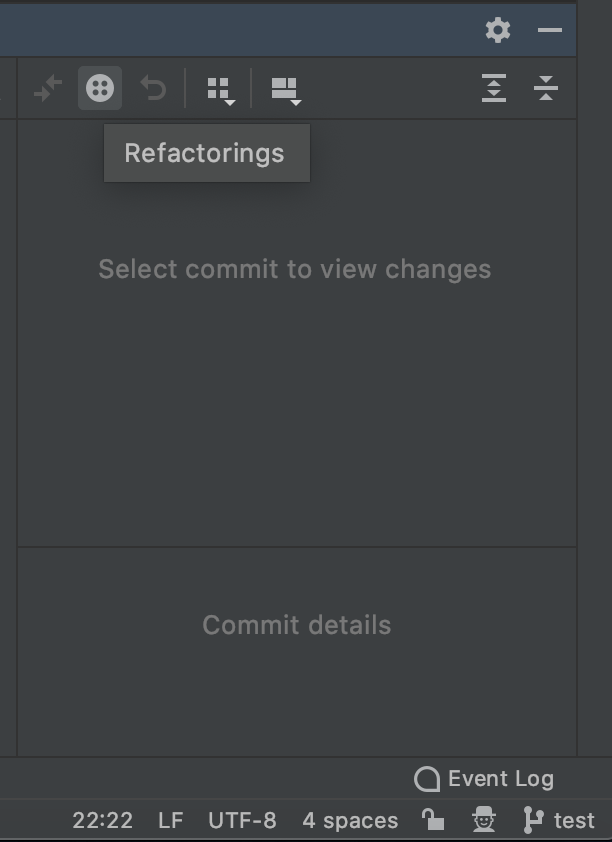
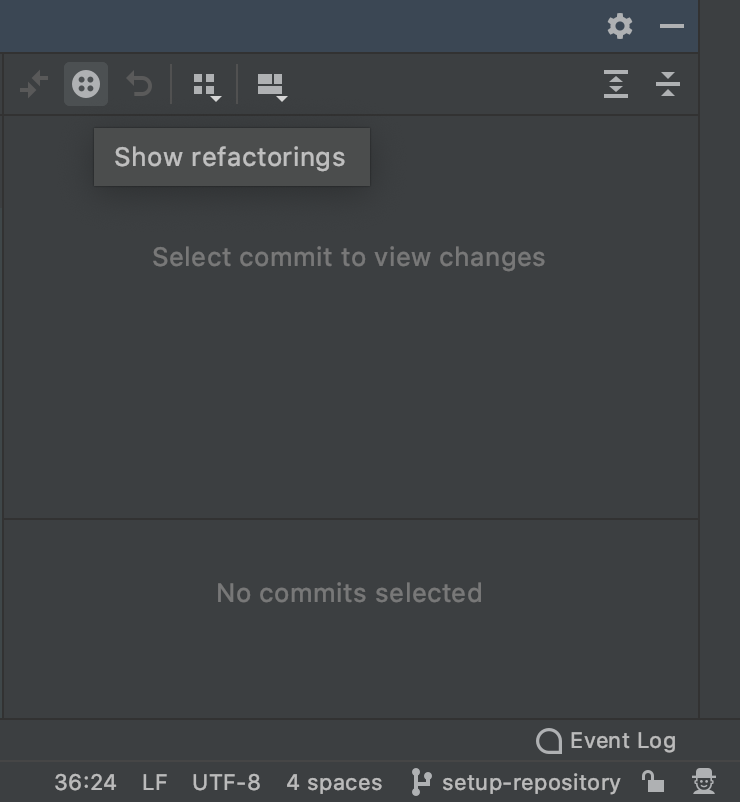
Resolve "Update README.md"

diff --git a/src/main/java/services/MiningService.java b/src/main/java/services/MiningService.java
@@ -38,7 +38,7 @@ import java.util.stream.Collectors;
 import java.util.stream.Stream;
 import org.jetbrains.annotations.NotNull;
 import processors.CommitMiner;
-import ui.GitWindow;
+import ui.windows.GitWindow;
 
 @State(name = "MiningRefactoringsState",
     storages = {@Storage("refactorings.xml")})

diff --git a/src/main/java/actions/MethodAction.java b/src/main/java/actions/MethodAction.java
@@ -13,7 +13,7 @@ import java.util.List;
 import java.util.Map;
 import org.jetbrains.annotations.NotNull;
 import services.MiningService;
-import ui.MethodRefactoringToolbar;
+import ui.windows.MethodRefactoringToolbar;
 import utils.Utils;
 
 public class MethodAction extends AnAction {

diff --git a/src/test/java/services/MiningServiceDirectoryTest.java b/src/test/java/services/MiningServiceDirectoryTest.java
@@ -21,7 +21,7 @@ import org.apache.commons.io.FileUtils;
 import org.jetbrains.annotations.NotNull;
 import org.mockito.Mockito;
 import org.mockito.internal.verification.Times;
-import ui.GitWindow;
+import ui.windows.GitWindow;
 import ui.renderer.CellRenderer;
 
 /**

diff --git a/src/main/java/services/WindowService.java b/src/main/java/services/WindowService.java
@@ -9,7 +9,7 @@ import com.intellij.vcs.log.ui.table.VcsLogGraphTable;
 import java.util.HashMap;
 import java.util.Map;
 import org.jetbrains.annotations.NotNull;
-import ui.GitWindow;
+import ui.windows.GitWindow;
 
 @Service
 public class WindowService {

diff --git a/src/main/java/ui/windows/GitWindow.java b/src/main/java/ui/windows/GitWindow.java
@@ -1,4 +1,4 @@
-package ui;
+package ui.windows;
 
 import com.intellij.openapi.actionSystem.AnActionEvent;
 import com.intellij.openapi.project.Project;

diff --git a/src/main/java/ui/windows/MethodRefactoringToolbar.java b/src/main/java/ui/windows/MethodRefactoringToolbar.java
@@ -1,4 +1,4 @@
-package ui;
+package ui.windows;
 
 import com.intellij.icons.AllIcons;
 import com.intellij.openapi.actionSystem.DataContext;

diff --git a/src/main/java/ui/windows/DiffWindow.java b/src/main/java/ui/windows/DiffWindow.java
@@ -1,4 +1,4 @@
-package ui;
+package ui.windows;
 
 import com.intellij.diff.DiffContentFactoryEx;
 import com.intellij.diff.DiffContext;

diff --git a/README.md b/README.md
@@ -9,35 +9,44 @@ The main framework that is used in order to retrieve the refactorings is the Ref
 
 Every sprint planning and retrospective can be found in the [Milestones section](https://gitlab.ewi.tudelft.nl/cse2000-software-project/2019-2020-q4/cluster-0/detecting-refactorings-in-code-changes/detecting-refactorings-in-code-changes/-/milestones?sort=due_date_desc&state=all). 
 
+The CI/CD pipelines have 3 stages: build, validate and coverage.
+
+In the `build` stage, the project and its dependencies are built. This is followed by the `validation` stage where 
+`checkstyle`, and `test` jobs are run. Finally, the `coverage` is calculated for the entire project,
+excluding the package `ui.windows`. The reason is that the ui objects cannot be tested, since they have many dependencies
+that cannot be mocked.
+
+If any stage fails, the badge will turn red.
+
 How to build & run
 -------------
 
 Download or clone the project in IntelliJ IDEA 2020.1 or up and run `gradle build` in order to install all the required dependencies.
 Use `gradle runIde` task to run the project. 
 A new IDE will open up where you can follow the steps below.
-If you want to import the plugin from disk, after building, run `gradle buildPlugin`. A zip will be generated in the 
+If you want to import the plugin from disk, run `gradle buildPlugin`. A zip will be generated in the 
 build/distribution file of the repository. Go to IntelliJ -> Preferences -> Plugin -> Install Plugin
 from Disk and upload the zip file. After an IDE restart, you will be able to follow the steps below.
 
 In order to see the refactorings in a git repository, make sure you cloned the repository and 
-open the built-in Git tab in IntelliJ. On the left side, you will see a button as highlighted below.
+open the built-in Git tab. On the right side, you will see a button as highlighted below.
 
-<img src="assets/img/refactorings.png" alt="Tools" width="200">
+<img src="assets/img/refactorings.png" alt="VcsLogUI" width="300">
 
-Click on a commit and then on the Refactorings button presented above to see the refactorings detected in that commit. 
+Click on a commit and then on the Show Refactorings button presented above to see the refactorings detected at that commit. 
+This should look as below.
+
+<img src="assets/img/example.png" alt="Example" width="900">
 
 In order to see the refactoring history of a method, right-click on the method signature as below.
 
-<img src="assets/img/history.png" alt="Tools" width="200">
+<img src="assets/img/refactoring_history.png" alt="RefactoringHistory" width="400">
 
 Click on 'Check Refactoring History' in order to see the refactorings for that method.
 
-If the label `This commit has not been mined` is shown for every commit as below, click on Refactorings
-in the main Tools menu. This means that no git repository changed event was triggered, and the commits were not mined.
+In the main Tools menu, you can select Mine All Refactorings if the commits have not been mined.
 
-<img src="assets/img/notmined.png" alt="Tools" width="400">
-
-<img src="assets/img/toolbar.png" alt="Tools" width="200">
+<img src="assets/img/toolbar.png" alt="Tools" width="300">
 
 
 
